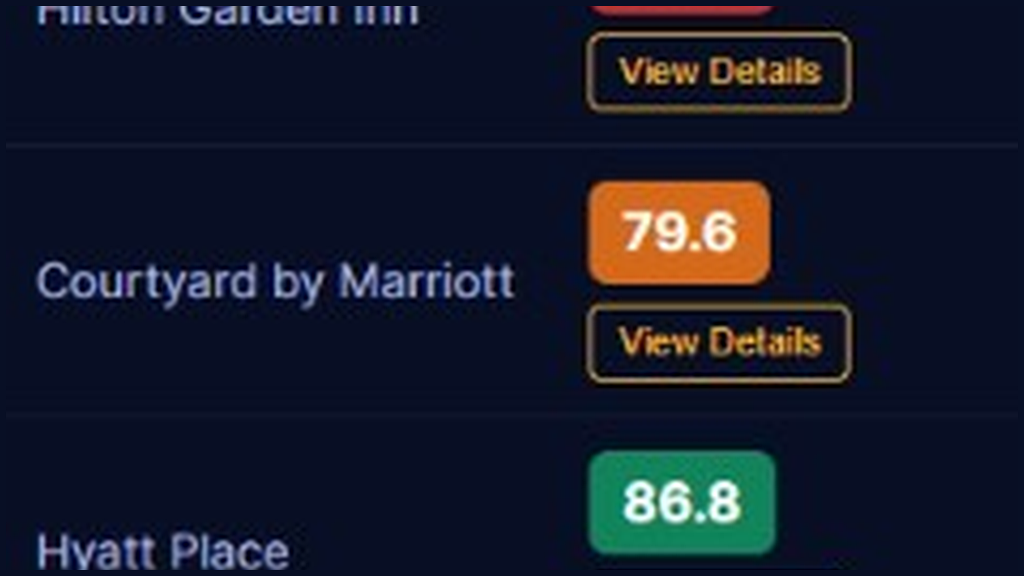
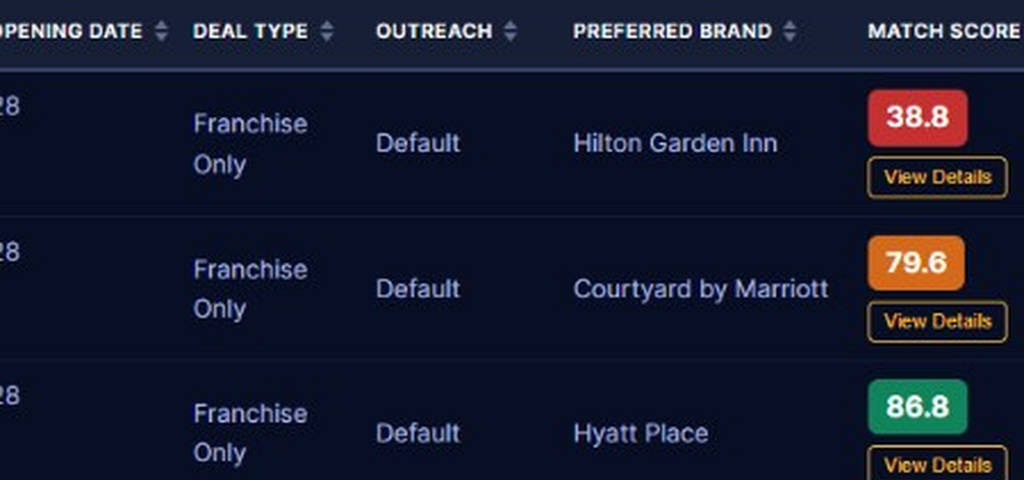
Reframe Smart Matching crop: zoom out, bias right
Replace the left-heavy navy-framed score crop with a wider cover-fill
of Preferred Brand + Match Score, and give the support tile a taller
frame so the table reads with less empty right margin.

diff --git a/webflow-embeds/many-futures/many-futures.css b/webflow-embeds/many-futures/many-futures.css
@@ -586,16 +586,17 @@
 }
 
 #dealality-many-futures .mf-feat--support > .mf-feat-visual:not(.mf-feat-visual--ui):has(.mf-feat-img--scores) {
-  max-height: 128px;
-  padding: 0 12px;
+  /* Taller frame = zoom out vs prior 128px crop */
+  max-height: 188px;
+  padding: 0 6px;
   box-sizing: border-box;
   background: #0a1228;
 }
 
 #dealality-many-futures .mf-feat-img--scores {
   object-fit: cover;
-  /* Slide crop right so match rows sit more centered with edge breathing room. */
-  object-position: 70% center;
+  /* Asset is already right-biased; keep a mild right/top bias in-tile */
+  object-position: 62% 32%;
 }
 
 #dealality-many-futures .mf-feat-img--fee {

diff --git a/webflow-embeds/many-futures/scripts/final-visual-polish.py b/webflow-embeds/many-futures/scripts/final-visual-polish.py
@@ -77,16 +77,24 @@ def navy_canvas(inner: Image.Image, out_w: int, out_h: int, pad: int = 14) -> Im
 
 
 def brand_smart_matching_crops() -> None:
-    """Zoom into Preferred Brand + Match Score from real matched-brands UI."""
+    """Zoomed-out Preferred Brand + Match Score, right-biased cover fill."""
     src = Image.open(SRC / "matched-brands.png").convert("RGB")
     w, h = src.size
-    # Preferred Brand + Match Score only (right side), skip filters; ~4 rows
-    desk_crop = src.crop((640, 115, w - 4, min(h - 4, 460)))
-    save_png_webp(navy_canvas(desk_crop, 1024, 576, pad=10), "smart-matching-desktop")
 
-    # Mobile: even tighter on brand name + score pills
-    mob_crop = src.crop((700, 115, w - 4, min(h - 4, 470)))
-    save_png_webp(navy_canvas(mob_crop, 780, 560, pad=8), "smart-matching-mobile")
+    def cover_fill(inner: Image.Image, out_w: int, out_h: int, ox: float = 0.86, oy: float = 0.3) -> Image.Image:
+        scale = max(out_w / inner.width, out_h / inner.height)
+        nw = max(out_w, int(round(inner.width * scale)))
+        nh = max(out_h, int(round(inner.height * scale)))
+        resized = inner.resize((nw, nh), Image.Resampling.LANCZOS)
+        left = int(round(max(0, nw - out_w) * ox))
+        top = int(round(max(0, nh - out_h) * oy))
+        return resized.crop((left, top, left + out_w, top + out_h))
+
+    # Wider region = zoom out; trim just past score pills; high ox keeps scores on the right edge
+    desk_region = src.crop((540, 78, min(w - 6, 990), min(h - 2, 508)))
+    mob_region = src.crop((580, 82, min(w - 6, 990), min(h - 2, 510)))
+    save_png_webp(cover_fill(desk_region, 1024, 480, ox=0.88, oy=0.34), "smart-matching-desktop")
+    save_png_webp(cover_fill(mob_region, 780, 420, ox=0.92, oy=0.32), "smart-matching-mobile")
 
 
 def operator_smart_matching_crops() -> None:
